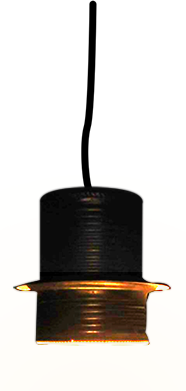
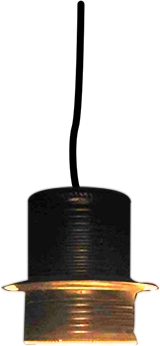
un podi pendolo

Changed region(s): [[0.0, 0.0, 1.0, 1.0]]

diff --git a/src/app/pendulum/pendulum.scss b/src/app/pendulum/pendulum.scss
@@ -11,28 +11,77 @@
 		right: -70%;
 		top: -50%;
 		bottom: -50%;
-		transform: rotate(-10deg);
 		transform-origin: 50% 25%;
 	}
 	.logo{
+
 	}
 	.bulb{
+		transform-origin: 50% 0;
 		img{
 			position: absolute;
 			left: 50%;
 			transform:translate(-50%,0);
 		}
-		.perno{
-			margin-left: 10px;
-		}
 		.bulb_lighting{
+			animation: pendulumBulbAnimation 1.5s infinite;
 			top:155px;
 		}
 		.light{
+			animation: pendulumLightAnimation 1.5s infinite;
 			top:55px;
 		}
 	}
 	.pendulum{
+		animation: pendulumAnimation 3s cubic-bezier(0.51, 0.01, 0.54, 0.5) infinite;
+	}
+}
 
+@keyframes pendulumAnimation{
+	0%,100%{
+		transform:rotate(10deg);
+	}
+	50%{
+		transform:rotate(-10deg);
+	}
+}
+@keyframes pendulumLightAnimation{
+	0%,100%{
+		opacity: 0.5;
+	}
+	50%{
+		opacity: 0.4;
+	}
+	52%{
+		opacity: 0.1;
+	}
+	57%{
+		opacity: 0.5;
+	}
+	60%{
+		opacity: 0.0;
+	}
+	63%{
+		opacity: 0.4;
+	}
+}
+@keyframes pendulumBulbAnimation{
+	0%,100%{
+		opacity: 1;
+	}
+	50%{
+		opacity: 0.8;
+	}
+	52%{
+		opacity: 0.6;
+	}
+	57%{
+		opacity: 1;
+	}
+	60%{
+		opacity: 0.6;
+	}
+	63%{
+		opacity: 1;
 	}
 }
